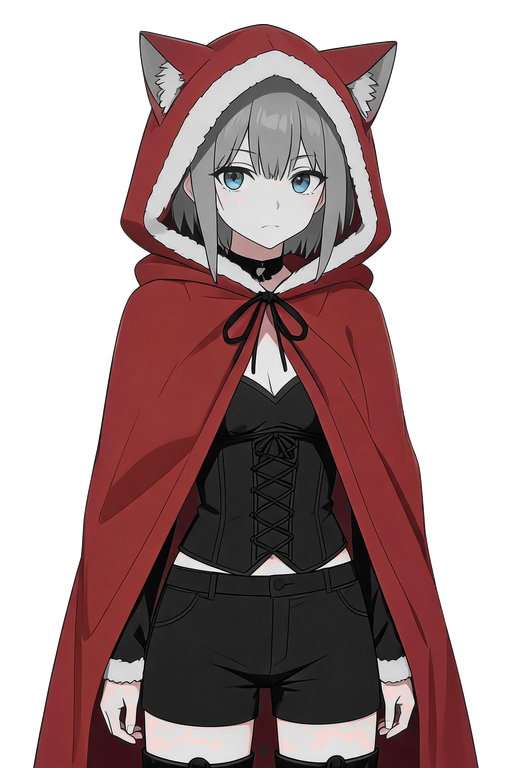
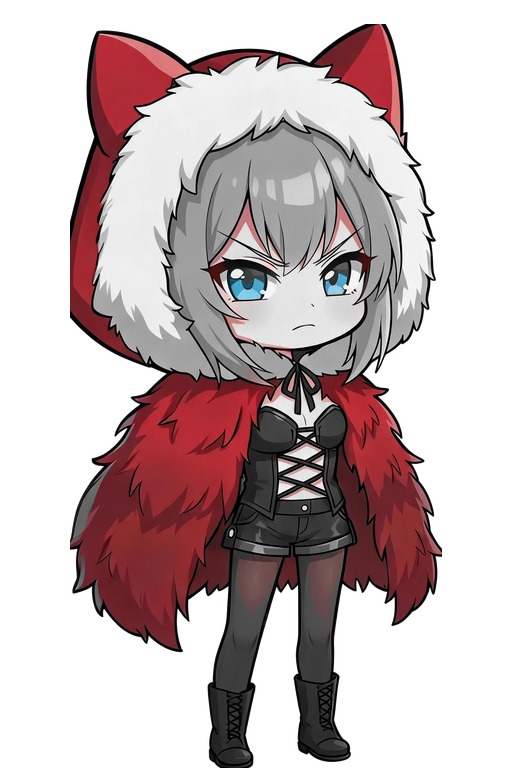
art: 对话立绘 v2（偏 chibi 画风、灵动表情）+ 对话框立绘放大

diff --git a/src/cutscene.js b/src/cutscene.js
@@ -589,7 +589,7 @@ const Cutscene = (function () {
   function drawSpeakerPortrait(ctx) {
     if (!S.portrait) return;
     const bump = S.text && S.text.bump ? Math.sin(Game.frame * 2.4) * 5 : 0;
-    portrait(ctx, S.portrait.who, W * 0.73, H * 0.50 + bump, 330, 470,
+    portrait(ctx, S.portrait.who, W * 0.74, H * 0.52 + bump, 380, 540,
              { expr: S.portrait.expr, inFrames: 1, flip: true, phase: 3 });
   }
 
